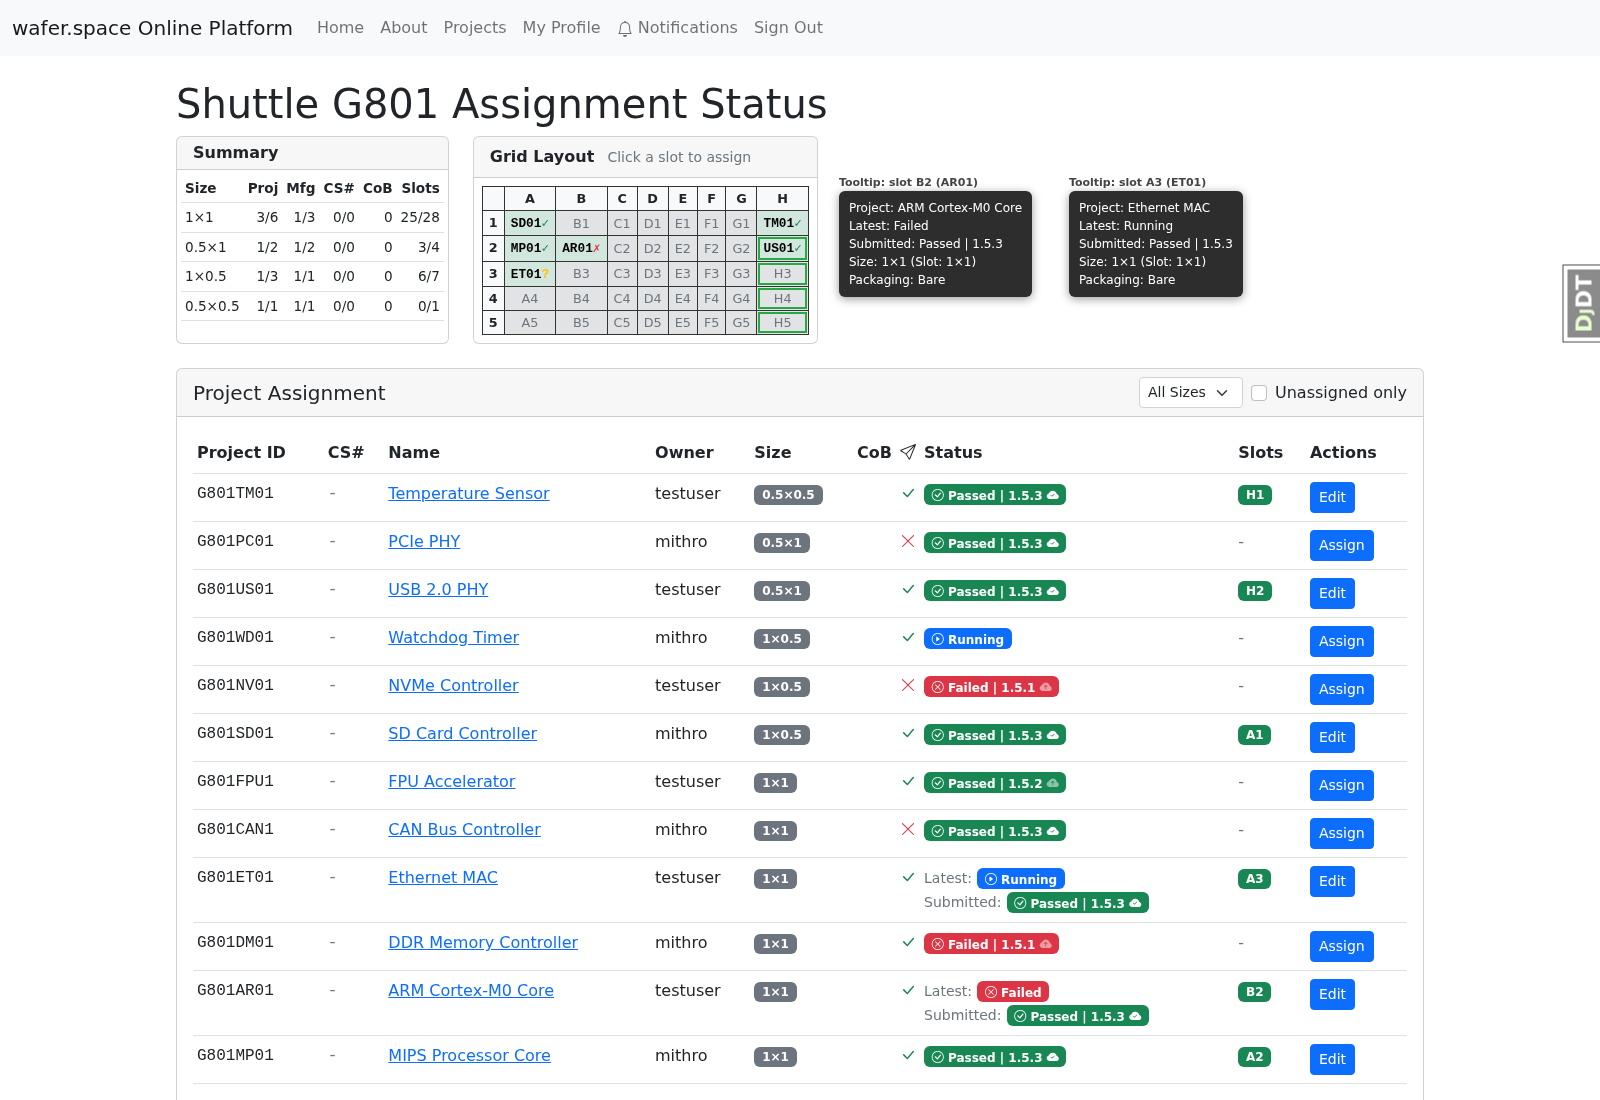
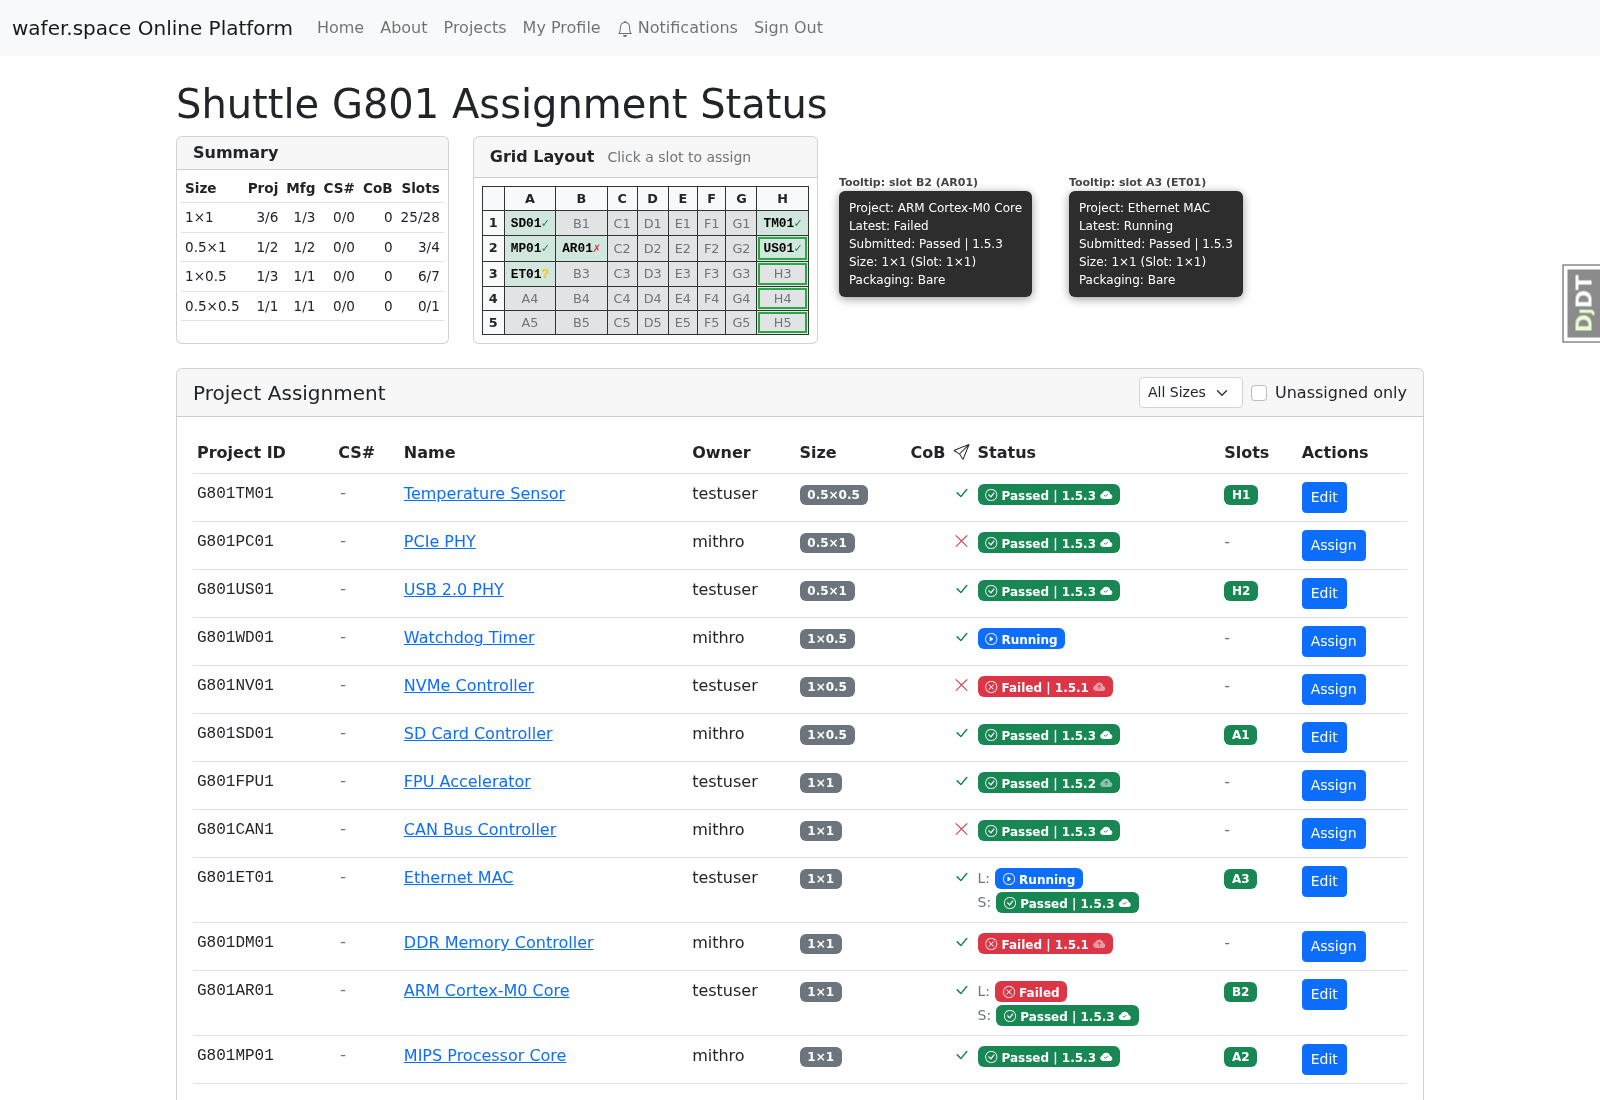
feat(shuttles): abbreviate Status column revision labels to L:/S:
The full Latest:/Submitted: labels made the two-line rows too wide. The
compact labels carry hover titles spelling out the full meaning, and
the grid tooltips keep the full Latest:/Submitted: words. Screenshots
regenerated.

Claude-Session: https://claude.ai/code/session_01TK5E8dhHZJbdMPGn6aM6q8

diff --git a/wafer_space/shuttles/templates/shuttles/assignment_dashboard.html b/wafer_space/shuttles/templates/shuttles/assignment_dashboard.html
@@ -205,11 +205,11 @@
                 <td data-sort-value="{% if project.latest_file_manufacturable %}0{% elif project.latest_file_manufacturable is None %}2{% else %}1{% endif %}">
                   {% if project.submitted_file and project.submitted_file != project.latest_file %}
                     <div class="text-nowrap">
-                      <small class="text-muted">Latest:</small>
+                      <small class="text-muted" title="Latest file revision">L:</small>
                       {% badge_check_status_and_version project.latest_file_check %}
                     </div>
                     <div class="text-nowrap">
-                      <small class="text-muted">Submitted:</small>
+                      <small class="text-muted" title="Submitted for manufacturing">S:</small>
                       {% badge_check_status_and_version project.submitted_file_check %}
                     </div>
                   {% else %}

diff --git a/wafer_space/shuttles/tests/test_views.py b/wafer_space/shuttles/tests/test_views.py
@@ -16,6 +16,8 @@ from wafer_space.users.tests.factories import UserFactory
 
 SUBMITTED_ICON = 'aria-label="File submitted for manufacturing"'
 NOT_SUBMITTED_ICON = 'aria-label="No file submitted for manufacturing"'
+LATEST_LABEL = 'title="Latest file revision">L:'
+SUBMITTED_LABEL = 'title="Submitted for manufacturing">S:'
 
 
 @pytest.mark.django_db
@@ -382,8 +384,8 @@ class TestAssignmentPageRevisionStatus:
         content = self._get_content(client, shuttle)
 
         assert "Passed" in content
-        assert "Latest:" not in content
-        assert "Submitted:" not in content
+        assert LATEST_LABEL not in content
+        assert SUBMITTED_LABEL not in content
         assert SUBMITTED_ICON in content
 
     def test_submitted_older_revision_shows_both_status_lines(self, client):
@@ -409,8 +411,8 @@ class TestAssignmentPageRevisionStatus:
 
         content = self._get_content(client, shuttle)
 
-        assert "Latest:" in content
-        assert "Submitted:" in content
+        assert LATEST_LABEL in content
+        assert SUBMITTED_LABEL in content
         assert "Passed" in content
         assert "Failed" in content
 

diff --git a/docs/manufacturable_vs_submitted.md b/docs/manufacturable_vs_submitted.md
@@ -96,7 +96,10 @@ rules:
 - **Status column**: always shows one line with the precheck status of the
   **latest** file revision. If a submitted revision exists and it is *not*
   the latest revision, a second line shows the precheck status of the
-  **submitted** revision. Each line is labelled when both are shown.
+  **submitted** revision. When both are shown each line carries a compact
+  `L:` / `S:` label (hover title spells out "Latest file revision" /
+  "Submitted for manufacturing"); tooltips use the full `Latest:` /
+  `Submitted:` words.
 - **Grid tiles and the assign-autocomplete indicator** (✓/?/✗) are keyed on
   the **latest** revision's manufacturability, consistent with the rest of
   the page. The grid tooltip carries the same information as the Status
